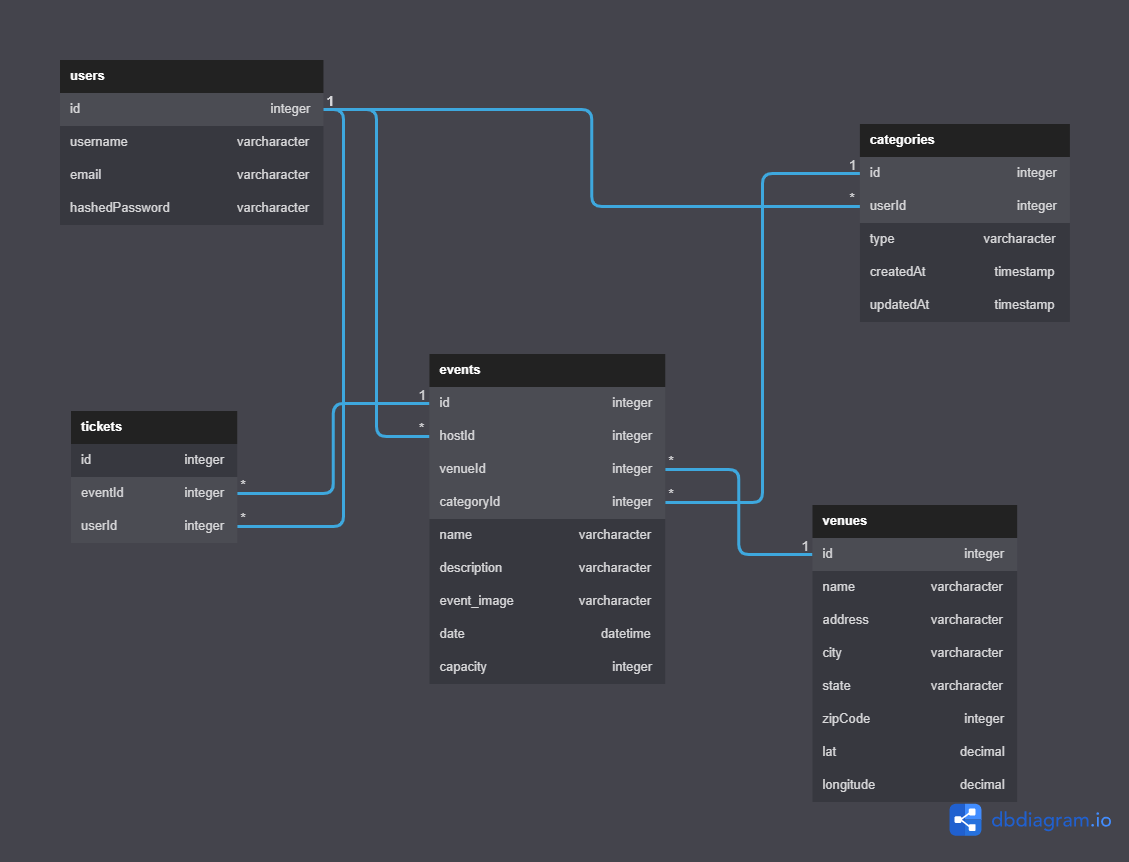
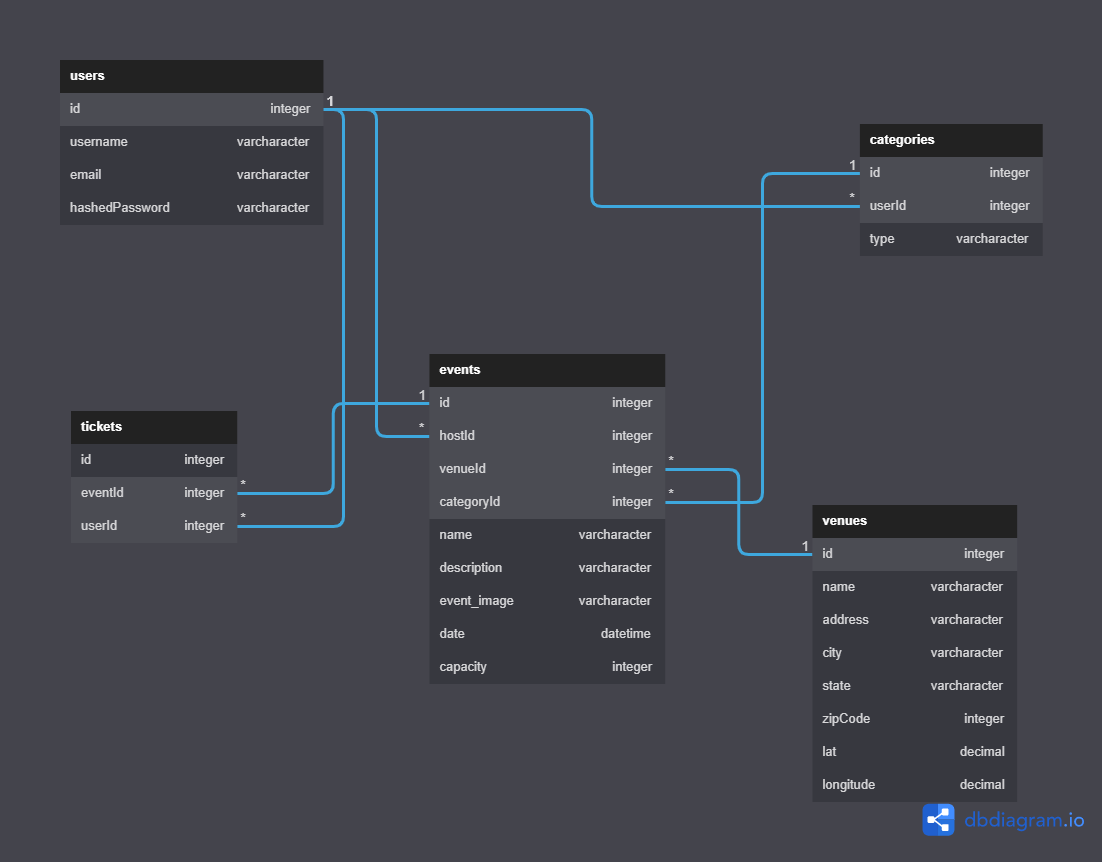
all models and model associations created along with all forms. Moving on to api routes

diff --git a/app/models/events.py b/app/models/events.py
@@ -13,4 +13,7 @@ class Events(db.Model):
     date = db.Column(db.DateTime, timezone=False, nullable=False)
     capacity = db.Column(db.Integer)
 
+    user = db.relationship('User', back_populates='events')
     venue = db.relationship('Venues', back_populates='events')
+    category = db.relationship('Categories', back_populates='events')
+    tickets = db.relationship('Tickets', back_populates='event')

diff --git a/app/models/user.py b/app/models/user.py
@@ -11,6 +11,8 @@ class User(db.Model, UserMixin):
     email = db.Column(db.String(255), nullable=False, unique=True)
     hashed_password = db.Column(db.String(255), nullable=False)
 
+    events = db.relationship('Events', back_populates='user', cascade='all, delete-orphan')
+
     @property
     def password(self):
         return self.hashed_password

diff --git a/app/models/categories.py b/app/models/categories.py
@@ -2,3 +2,9 @@ from .db import db
 
 class Categories(db.Model):
     __tablename__ = 'categories'
+
+    id = db.Column(db.Integer, primary_key=True)
+    user_id = db.Column(db.Integer, db.ForeignKey('users.id'), nullable=False)
+    type = db.Column(db.String(20), nullable=False)
+
+    events = db.relationship('Events', back_populates='category')

diff --git a/app/models/tickets.py b/app/models/tickets.py
@@ -1,0 +1,10 @@
+from .db import db
+
+class Tickets(db.Model):
+    __tablename__ = 'tickets'
+
+    id = db.Column(db.Integer, primary_key=True)
+    event_id = db.Column(db.Integer, db.ForeignKey('events.id'))
+    user_id = db.Column(db.Integer, db.ForeignKey('users.id'))
+
+    event = db.relationship('Events', back_populates='tickets')

diff --git a/app/models/venues.py b/app/models/venues.py
@@ -10,3 +10,5 @@ class Venues(db.Model):
     zip_code = db.Column(db.Integer, nullable=False)
     latitude = db.Column(db.Float)
     longitude = db.Column(db.Float)
+
+    events = db.relationship('Events', back_populates='venue')
